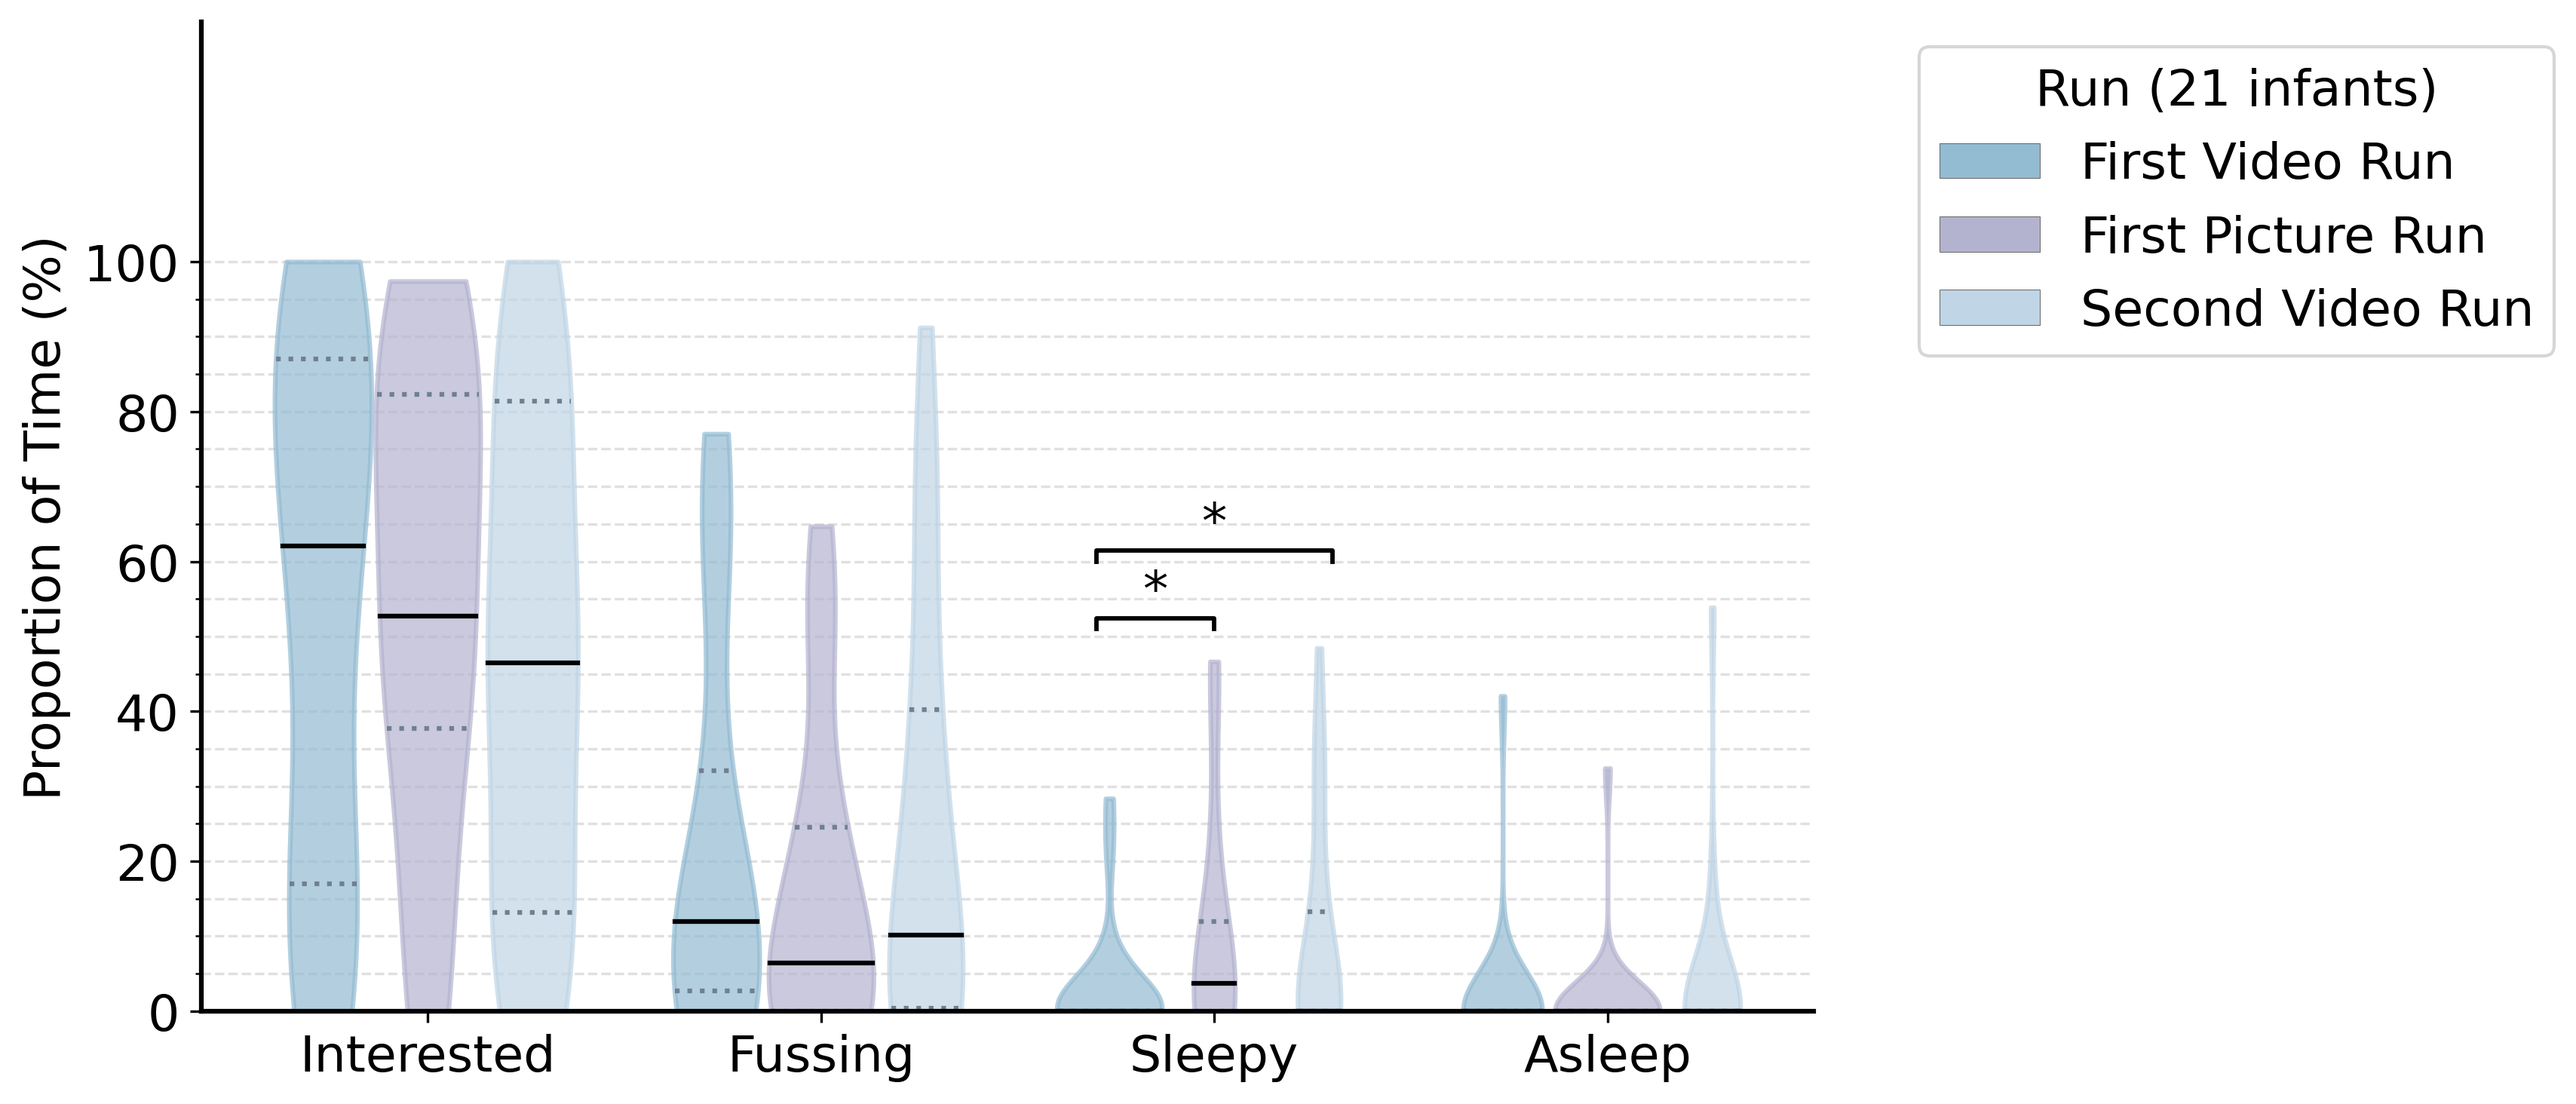
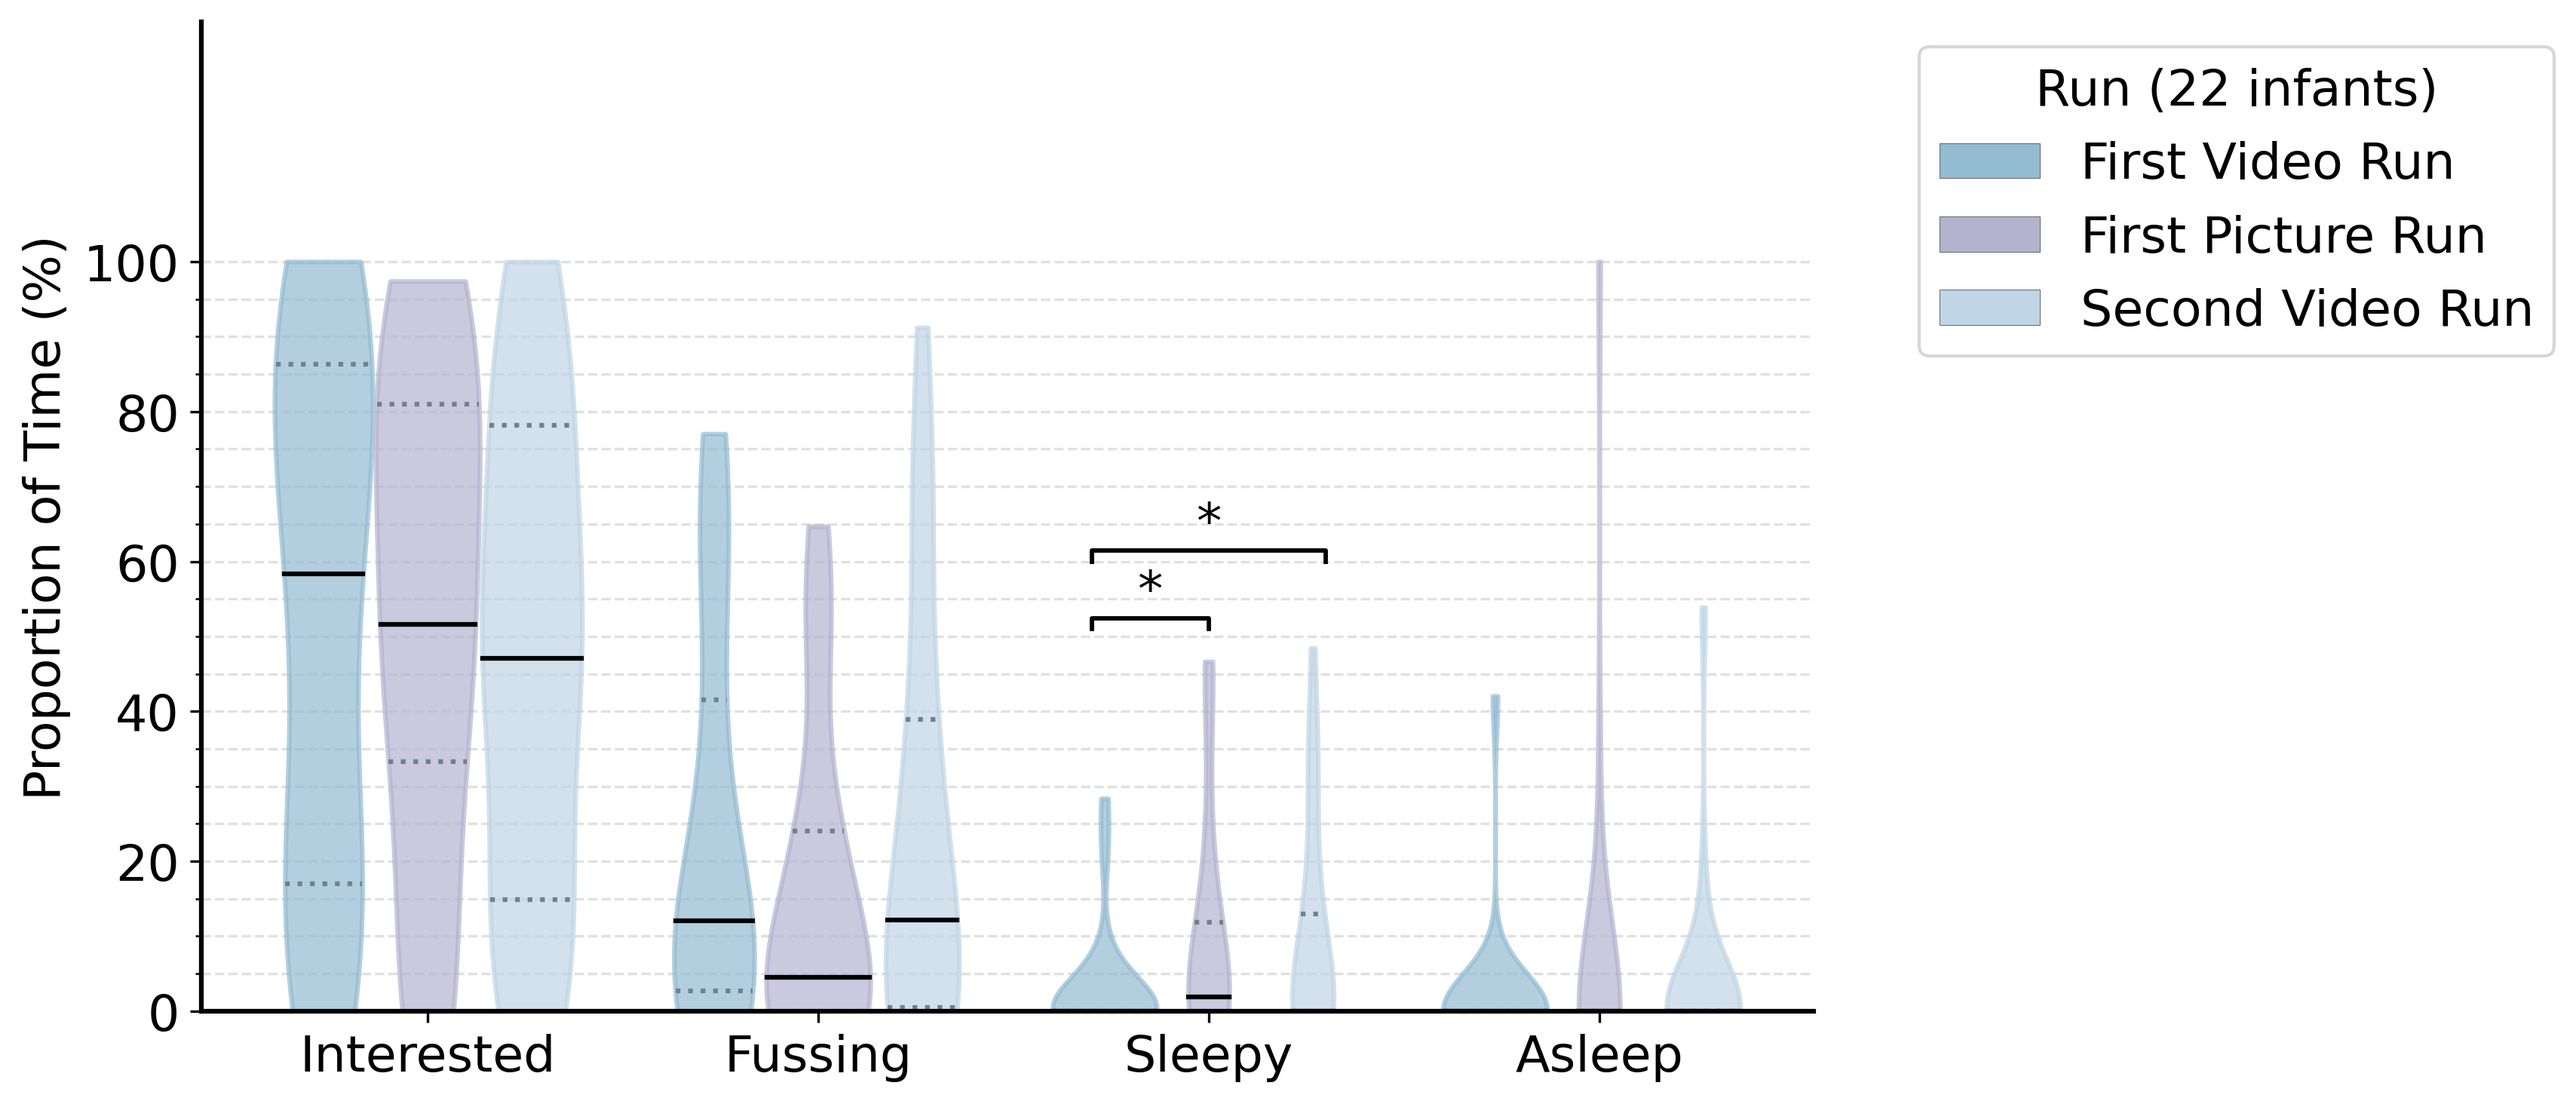
Update ReadMe

diff --git a/code/attentive_state/03_figure5.py b/code/attentive_state/03_figure5.py
@@ -26,9 +26,8 @@ Panels
      (stars show uncorrected Wilcoxon p < .05 / .01 / .001).
   F  as E, 9 months.
 
-Exclusions are read from code/attentive_state/exclusions.tsv (participant_id, applies_to, reason):
-applies_to = 'all' removes the infant from every panel; 'run_comparison'
-removes them from panels E-F only.
+Optionally, --exclusions FILE (participant_id, applies_to, reason) removes further
+infants: applies_to = 'all' from every panel, 'run_comparison' from E-F only.
 
 Outputs in outputs/attentive_state/figure5_sharable_runs/ (or --out): one PNG per panel, and for each panel the run and
 infant counts, median/IQR per group and category, and the test results.
@@ -92,7 +91,7 @@ def load_runs(counts_path, exclusions_path):
     df["ses_task_run"] = ("S" + df["session"].str.replace("ses-", "") + "_" + df["task"] + "_R"
                           + df["run"].astype(int).astype(str))
 
-    excl = pd.read_csv(exclusions_path, sep="\t", comment="#") if exclusions_path.exists() else \
+    excl = pd.read_csv(exclusions_path, sep="\t", comment="#") if exclusions_path else \
         pd.DataFrame(columns=["participant_id", "applies_to", "reason"])
     bad = set(excl["applies_to"]) - {"all", "run_comparison"}
     if bad:
@@ -296,7 +295,7 @@ def save_stats(df, path):
 def main():
     ap = argparse.ArgumentParser(description=__doc__, formatter_class=argparse.RawDescriptionHelpFormatter)
     ap.add_argument("--counts", default=OUT / "tag_counts_per_run.tsv", type=Path)
-    ap.add_argument("--exclusions", default=HERE / "exclusions.tsv", type=Path)
+    ap.add_argument("--exclusions", type=Path, help="optional TSV of further infants to exclude (see above)")
     ap.add_argument("--out", default=OUT / "figure5_sharable_runs", type=Path)
     ap.add_argument("--precise", action="store_true", help="write statistics without rounding")
     a = ap.parse_args()

diff --git a/README.md b/README.md
@@ -22,12 +22,12 @@ Code and attentive-state tags accompanying:
 
 </details>
 
-The code reproduces the figures on head motion (Figure 3D–F, Supplementary Figure 4) and attentive state (Figure 5 B–F), and the noise ceiling analysis (to follow). It can be run on the data shared here and on OpenNeuro. Each figure is also provided as reported in the paper, computed on the full cohort (group-level results only).
+The code reproduces the figures on head motion (Figure 3D–F, Supplementary Figure 4) and attentive state (Figure 5 B–F). It can be run on the data shared here and on OpenNeuro. Each figure is also provided as reported in the paper, computed on the full cohort (group-level results only).
 
 ```
 code/
   motion/            01_figure3D.py, 02_figure3EF_S4.py
-  attentive_state/   01_tags_to_timeseries.py, 02_count_tags.py, 03_figure5.py, exclusions.tsv
+  attentive_state/   01_tags_to_timeseries.py, 02_count_tags.py, 03_figure5.py
 data/
   attentive_state_tags/   tag files and tag_run_metadata.tsv
 outputs/
@@ -90,8 +90,8 @@ python code/motion/02_figure3EF_S4.py --bids-dir /path/to/ds006883
 
 Infants' attentive state was coded from the in-scanner video recordings in ELAN. The tags are shared in `data/attentive_state_tags/`: 413 tag files from 112 infants, one per tagged run, for infants whose caregivers consented to data sharing.
 
-- Files: `sub-<ID>/ses-<N>/func/sub-<ID>_ses-<N>_task-<task>_dir-<dir>_run-<NNN>_tags.txt`. Each file is an ELAN tab-delimited export with one row per tagged interval: tag name, start, end and duration (s), relative to the start of the stimulus video.
-- Participant IDs: `sub-2xxx` for infants scanned at 2 months, `sub-9xxx` for infants scanned at 9 months.
+- Files: `sub-<ID>/ses-<N>/func/sub-<ID>_ses-<N>_task-<task>_dir-<dir>_run-<NNN>_tags.txt`. Each file is an ELAN tab-delimited export with one row per tagged interval: tag name, start, end and duration (s), relative to the start of the tagged (cropped) camera video. Add `video_onset_s` from `tag_run_metadata.tsv` to align tag times with the run's `events.tsv` on OpenNeuro.
+- Participant IDs: `sub-2xxx` for infants scanned at 2 months, `sub-9xxx` for infants scanned at 9 months. Run names match OpenNeuro ds006883.
 - Tags: interest_scanning, interest_enjoyment, upset, sleepy, asleep, eyes_closed_awake, vocalising, looking_away_internal, looking_away_camera, looking_away_foreignobject, eyes_blocked, adult_hand, object_in_mouth, baby_out. Definitions are in Table 1 of the paper. <!-- TODO: add codebook -->
 
 #### Examples
@@ -115,12 +115,12 @@ Shared with the caregivers' permission. © 2026 Cusack Lab, CC BY-NC-ND 4.0 (see
 | Column | Meaning |
 |---|---|
 | `run_name` | run, as in the tag file name |
-| `start_precision` | precision of the recorded run start time (`millisecond` or `second`) |
-| `video_onset_s` | onset of the stimulus video in the recording (s) |
+| `start_precision` | how precisely the video is aligned to the run: `millisecond` (recording started automatically with the scan) or `second` (started and cropped manually; to about 1 s) |
+| `video_onset_s` | time (s) in the run's `events.tsv` at which tag time 0 occurs; add it to tag times to align them with the run |
 | `recording_starts_late`, `recording_ends_early` | the recording misses the start or end of the run |
 | `complete_recording` | the recording covers the whole run |
 | `run_duration_s` | duration of the run (s) |
-| `video_duration_s` | duration of the tagged video (s) |
+| `video_duration_s` | duration of the tagged (cropped) video (s) |
 
 ### Analysis
 
@@ -138,23 +138,26 @@ python code/attentive_state/03_figure5.py              # Figure 5 B-F and statis
    - Panels B–D use linear models with standard errors clustered by infant, with Benjamini–Hochberg correction across states.
    - Panels E–F compare the first videos, first pictures and second videos run of session 1, in infants who had all three. They use a Friedman test, then Wilcoxon signed-rank tests (uncorrected).
 
-   Infants excluded from all panels, or only from the run comparison, are listed in `code/attentive_state/exclusions.tsv`.
-
 | Folder | Data |
 |---|---|
 | `outputs/attentive_state/figure5_sharable_runs/` | the tags shared here |
-| `outputs/attentive_state/figure5_full_cohort/` | all infants in the paper, as published (group-level results only) |
+| `outputs/attentive_state/figure5_full_cohort/` | all infants in the paper (group-level results only) |
 
 The published figure also includes NICU infants and infants whose caregivers did not consent to sharing. Results from the shared tags therefore differ somewhat from the paper.
 
-## Noise ceiling
+## Coming in the next release
 
-To follow.
+- Noise ceiling analysis (Figure 4)
+- Efficiency of the animacy contrast with respect to run length (Supplementary Figures 7 and 8)
+
+## Contact
+
+Questions or enquiries: [dineenai@tcd.ie](mailto:dineenai@tcd.ie)
 
 ## Licence
 
 - Code and outputs: BSD 3-Clause License, as for the FOUNDCOG paradigm. See [LICENSE](LICENSE).
-- Attentive-state tags and run metadata in `data/`: CC BY 4.0, © 2026 Cusack Lab. See [data/LICENSE](data/LICENSE). Please cite the paper above when using them.
+- Attentive-state tags and run metadata in `data/attentive_state_tags/`: CC BY 4.0, © 2026 Cusack Lab. See [data/attentive_state_tags/LICENSE](data/attentive_state_tags/LICENSE). Please cite the paper above when using them.
 - Images and videos in `media/`: CC BY-NC-ND 4.0, © 2026 Cusack Lab. See [media/LICENSE](media/LICENSE). Credit as: "[filename]" by Cusack Lab, © 2026, licensed under CC BY-NC-ND 4.0.
 
 ## Citation
